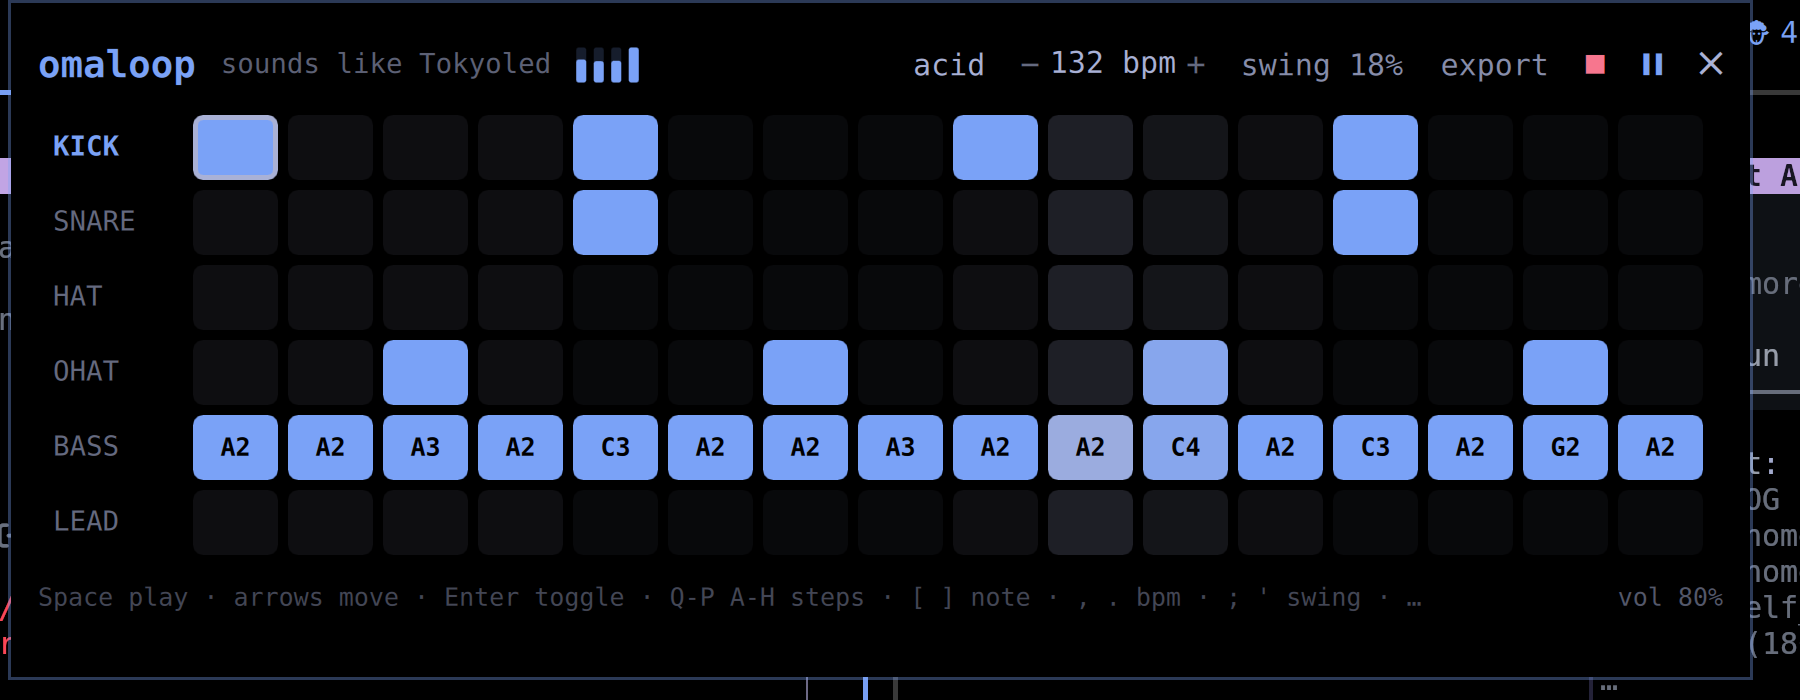
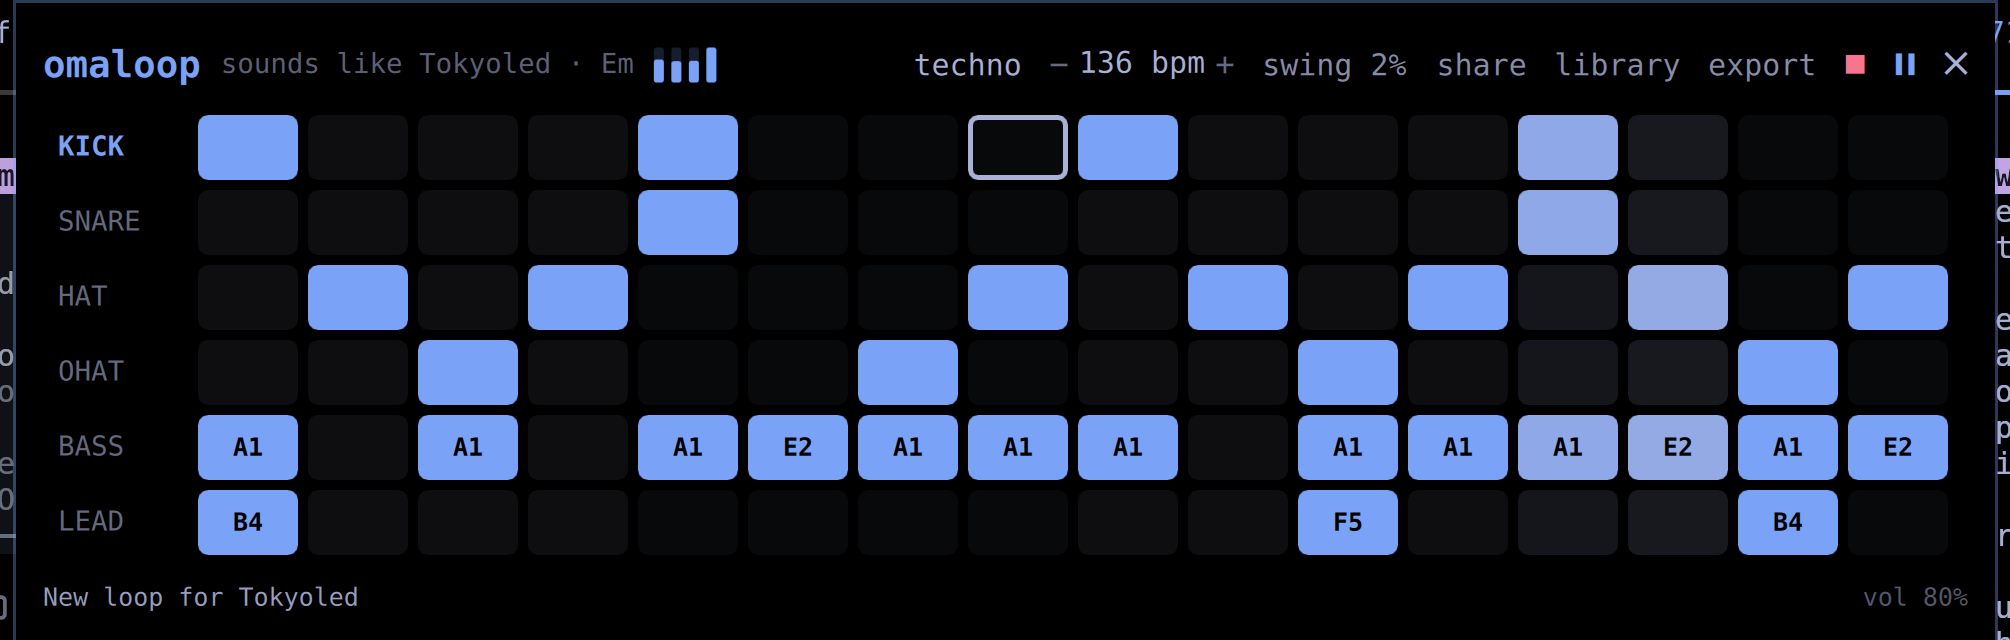
1.0.0: submission-ready README, fresh screenshots, preview.png, install.sh --uninstall, locked build

diff --git a/README.md b/README.md
@@ -1,13 +1,11 @@
 # omaloop
 
-A drop-down groovebox for [Omarchy](https://omarchy.org). Press SUPER+ALT+L. A 16-step drum machine, a bass line, and a lead synth slide down from the top of the screen in your theme's colors. Make a loop. Press SUPER+ALT+L again and it slides away while the loop keeps playing. Press Ctrl+C and the loop is a link you can tweet.
+**Your Omarchy theme is a loop.** Press SUPER+ALT+L and a groovebox drops down from the top of the screen in your theme's colors, already playing a loop the theme composed. Switch theme and it composes a new one. Press Ctrl+C and the loop is a link you can tweet.
 
-No samples, no DAW, no config. A small Rust engine generates four drums and two synths and sends them straight to PipeWire.
+![Futurism composes synthwave in G minor](docs/futurism.png)
+![Tokyo Night composes techno in E minor](docs/tokyoled.png)
 
-**Your theme is a loop.** Switch theme and omaloop composes a new one from the palette: the colors pick a style (techno, synthwave, boombap, deep, house), a tempo, a swing, a key, the drums, a bass line, a lead motif, and the tone. The same theme always writes the same loop, so "what does Tokyo Night sound like" has one answer. Shift+G asks for a variation. Your outgoing loop is saved to the library first.
-
-![omaloop under Robzee84](docs/robzee84.png)
-![the same loop under Tokyo Night](docs/tokyoled.png)
+Same plugin, two themes, two loops. No samples, no DAW, no config, no network. A small Rust engine synthesizes four drums, a bass, and a lead and sends them straight to PipeWire.
 
 ## Install
 
@@ -16,64 +14,20 @@ omarchy plugin add https://github.com/joshuaswarren/omaloop --enable
 ~/.config/omarchy/plugins/io.github.joshuaswarren.omaloop/install.sh --bind
 ```
 
-`install.sh` builds the engine with cargo and registers the `omaloop://` link handler. With `--bind` it also appends a SUPER+ALT+L binding to `~/.config/hypr/bindings.lua`. Without `--bind` it prints the line for you to add yourself. If the engine is missing, the panel shows a Build button that runs the same build.
+The first line clones this repo the standard Omarchy way. The second builds the engine (needs [Rust](https://rustup.rs)) and registers the `omaloop://` link handler. With `--bind` it also adds SUPER+ALT+L to `~/.config/hypr/bindings.lua`. Leave `--bind` off and it prints the line for you instead. Skip the script and the panel shows a Build button that runs the same `cargo build`.
 
-Toggle without the keybind:
+Requires Omarchy 4 (Quattro), Rust 1.75+, and `wl-clipboard` (already on Omarchy).
+
+## Remove
 
 ```sh
-omarchy-shell shell toggle io.github.joshuaswarren.omaloop
-omarchy-shell shell summon io.github.joshuaswarren.omaloop '{"preset":"acid","play":true}'
+~/.config/omarchy/plugins/io.github.joshuaswarren.omaloop/install.sh --uninstall
+omarchy plugin remove io.github.joshuaswarren.omaloop
 ```
 
-Requires Omarchy 4 (Quattro) and Rust 1.75+.
+The first line removes the link handler and the keybinding it added. The second removes the plugin. Your loops in `~/.config/omaloop` and exports in `~/Music/omaloop` are left for you to keep or delete.
 
-## Play it
-
-| Key | Does |
-|---|---|
-| `Space` | play / pause |
-| arrows | move the cursor |
-| `Enter` or `X` | toggle the cell under the cursor |
-| `Q W E R T Y U I O P A S D F G H` | toggle steps 1-16 in the cursor's row |
-| `1` - `6` | jump to a row |
-| `[` `]` | move a bass or lead note down / up the scale (A minor) |
-| `,` `.` | BPM -1 / +1 (Shift for 5) |
-| `;` `'` | swing -5% / +5% |
-| `-` `=` | volume |
-| `Shift+P` | next preset (y2k, acid, minimal, breaks) |
-| `Shift+R` | randomize the cursor's row (drums by density, notes in scale) |
-| `Shift+C` or `Delete` | clear the cursor's row |
-| `Shift+G` | new loop from the current theme (each press is a new variation) |
-| `Shift+E` | export 4 bars to `~/Music/omaloop/<preset>-<time>.wav` |
-| `Ctrl+C` | copy a share link for this loop |
-| `Ctrl+V` | load a loop from a link or code on the clipboard |
-| `Ctrl+S` | save to your library (type a name, Enter) |
-| `Ctrl+O` | open the library (Up/Down, Enter loads, Delete removes) |
-| `Esc` | hide (the loop keeps playing; the red square stops it) |
-
-Mouse works too: click a cell, scroll on a note cell to transpose, click the preset name to cycle, scroll on swing or volume.
-
-![editing a loop](docs/editing.png)
-
-The current pattern is saved on every change to `~/.config/omaloop/pattern.json` and comes back on the next boot. Named loops live in `~/.config/omaloop/patterns/<name>.json`.
-
-## Share a loop
-
-Ctrl+C in the panel puts a link like this on your clipboard:
-
-```
-https://joshuaswarren.github.io/omaloop/#AUEEEJBVVQCAIQAAIQAAIQAAACEAACQAAAAAAAAAAAAARQBIAAAAAAB9QObMM4AH
-```
-
-The 64 characters after `#` are the whole loop: 4 drum masks, 32 notes, tempo, swing, tone, and key, in 48 bytes. Anyone who opens the link gets a browser page that plays the loop with the same synthesis as the desktop engine and shows the grid. If they have omaloop, the "open in omaloop" button hands the code to their panel through the `omaloop://` scheme, and their theme decides how it sounds. Ctrl+V in the panel loads a link or bare code from the clipboard.
-
-## Why this exists
-
-Omarchy 4 rebuilt the desktop as one Quickshell process. The community started shipping plugins for it overnight. The ones that spread make the desktop do something new in the theme's own colors. Every music plugin so far plays other people's music. omaloop makes the desktop itself an instrument.
-
-In 2000 I produced techno as DJ Zip in FruityLoops with an Akai AX-60 and a Yamaha DD-50. "A Y2K Time Warp" won amp3.com's first Pick Hit Gold of the year on 2000-01-02. The default `y2k` preset is that loop's shape: four-on-the-floor at 138, a clap on 2 and 4, offbeat hats, a walking A-minor bass, and a detuned three-saw lead. The lead is a 3xOSC homage on purpose.
-
-## How the theme becomes a loop
+## What a theme becomes
 
 The panel reads the shell's live palette (accent, background, foreground, urgent, muted) and reduces it to four numbers and a seed:
 
@@ -85,18 +39,75 @@ The panel reads the shell's live palette (accent, background, foreground, urgent
 | spice | urgent color saturation | how busy the lead is |
 | seed | a hash of all five colors | the exact notes inside the style's rules |
 
-The engine composes inside each style's vocabulary: four-on-the-floor and offbeat open hats for techno, a swung two-kick pattern with dorian color for boombap, an arpeggiated chord for synthwave, long sub notes and one lead phrase for deep, root-fifth bass and stabs for house. Tempo and swing come from the style with a little seeded variation.
+The engine composes inside each style's vocabulary. Techno gets four-on-the-floor and offbeat open hats. Boombap gets a swung two-kick pattern with dorian color. Synthwave gets an arpeggiated chord. Deep gets long sub notes and one lead phrase. House gets root-fifth bass and stabs. Tempo and swing come from the style with a little seeded variation. The same theme always writes the same loop, so "what does Catppuccin sound like" has one answer.
 
-On top of the loop, the palette also sets the tone. Whenever the theme changes the panel sends one `tone` message:
+The palette also sets the tone, live:
 
 | Palette | Synth |
 |---|---|
-| accent hue | the key (12 hues, 12 minor keys, applied as a playback transpose so your notes stay where you put them) and oscillator detune spread |
-| accent lightness | filter cutoff (brighter accent, brighter lead and bass) |
+| accent hue | the key (12 hues, 12 keys, applied as a playback transpose so your notes stay where you put them) and oscillator spread |
+| accent lightness | filter cutoff |
 | accent saturation | drive (tanh soft clip on the mix) |
 | background darkness | sub weight under the kick and bass |
 
-No table of theme names. Custom themes get a sound too. The header shows the key and four small bars for the current tone. Loading a preset, a saved loop, or a shared link keeps this rule: on your machine, your theme owns the sound.
+Custom themes get a loop too. Switching theme saves the outgoing loop to your library as `before theme switch` first, so nothing you made is lost.
+
+## Play it
+
+| Key | Does |
+|---|---|
+| `Space` | play / pause |
+| arrows | move the cursor |
+| `Enter` or `X` | toggle the cell under the cursor |
+| `Q W E R T Y U I O P A S D F G H` | toggle steps 1-16 in the cursor's row |
+| `1` - `6` | jump to a row |
+| `[` `]` | move a bass or lead note down / up the scale |
+| `,` `.` | BPM -1 / +1 (Shift for 5) |
+| `;` `'` | swing -5% / +5% |
+| `-` `=` | volume |
+| `Shift+G` | new loop from the current theme (each press is a new variation) |
+| `Shift+P` | cycle the hand-made presets (y2k, acid, minimal, breaks) |
+| `Shift+R` | randomize the cursor's row (drums by density, notes in scale) |
+| `Shift+C` or `Delete` | clear the cursor's row |
+| `Shift+E` | export 4 bars to `~/Music/omaloop/<name>-<time>.wav` |
+| `Ctrl+C` | copy a share link for this loop |
+| `Ctrl+V` | load a loop from a link or code on the clipboard |
+| `Ctrl+S` | save to your library (type a name, Enter) |
+| `Ctrl+O` | open the library (Up/Down, Enter loads, Delete removes) |
+| `Esc` | hide (the loop keeps playing; the red square stops it) |
+
+Mouse works too: click a cell, scroll on a note cell to transpose, click the preset name to cycle, scroll on swing or volume. While the panel is down it owns the keyboard, like Omarchy's menus. Nothing you play leaks into the window underneath.
+
+## Share a loop
+
+Ctrl+C puts a link like this on your clipboard:
+
+```
+https://joshuaswarren.github.io/omaloop/#AUEEEJBVVQCAIQAAIQAAIQAAACEAACQAAAAAAAAAAAAARQBIAAAAAAB9QObMM4AH
+```
+
+The 64 characters after `#` are the whole loop: 4 drum masks, 32 notes, tempo, swing, tone, and key, in 48 bytes. Anyone who opens the link gets a static page that plays the loop in the browser and shows the grid. The page is a JavaScript port of the engine. If they have omaloop, the "open in omaloop" button hands the code to their panel through the `omaloop://` scheme. Their theme decides how it sounds. Ctrl+V loads a link or bare code from the clipboard.
+
+## Where things live
+
+| Path | What |
+|---|---|
+| `~/.config/omaloop/pattern.json` | the current loop, written on every change |
+| `~/.config/omaloop/patterns/<name>.json` | your library |
+| `~/Music/omaloop/*.wav` | exports |
+| `~/.local/share/applications/omaloop.desktop` | the `omaloop://` handler, written by `install.sh` |
+| `~/.config/hypr/bindings.lua` | one appended `o.bind` line, only with `install.sh --bind` |
+
+## What it runs and touches
+
+Written for anyone reviewing this plugin before enabling it.
+
+- The panel (`OmaloopPanel.qml`) spawns one child process, `engine/target/release/omaloop-engine`. It is built from the Rust source in this repo with `cargo build --locked`. Dependencies are pinned in `engine/Cargo.lock`: cpal (audio), hound (WAV), serde_json, parking_lot. The engine reads stdin. It writes stdout, the state file, library files, and the WAV exports you ask for.
+- The panel also runs `test`, `cargo build --release` (Build button only), `wl-copy` (Ctrl+C), and `wl-paste -n` (Ctrl+V). It reads `~/.local/state/omarchy/current/theme.name` to show the theme name.
+- `bin/omaloop-open` is the `omaloop://` handler. It extracts a 64-character `[A-Za-z0-9_-]` code from the URL and calls `omarchy-shell shell summon` with it. It ignores anything else.
+- `install.sh` runs only when you run it. It never downloads a script, never uses sudo or pkexec, and only writes the files listed above. `--uninstall` reverses it.
+- No network access anywhere in the plugin. The share page is static HTML on GitHub Pages and does not phone home.
+- `omarchy plugin validate` passes; there are no symlinks and no bundled binaries in the repo.
 
 ## Architecture
 
@@ -104,8 +115,9 @@ No table of theme names. Custom themes get a sound too. The header shows the key
 OmaloopPanel.qml   Quickshell panel, theme colors from qs.Commons, all keys
       |  Quickshell.Io.Process: JSON lines over stdin / stdout
       v
-omaloop-engine     Rust, ~600 lines: 16-step clock with swing, 6 voices,
-      |            dotted-eighth delay, soft clip, state file, WAV export
+omaloop-engine     Rust, one file: 16-step clock with swing, 6 voices,
+      |            dotted-eighth delay, soft clip, composer, loop codes,
+      |            state file, library, WAV export
       v
 PipeWire           via cpal
 ```
@@ -120,17 +132,15 @@ cd engine && cargo build --release
 ```
 
 ```json
+{"cmd":"generate","seed":42,"energy":0.7,"warmth":0.3,"brightness":0.1,"spice":0.5}
 {"cmd":"preset","name":"acid"}
 {"cmd":"step","track":"ohat","index":14,"on":true}
 {"cmd":"note","track":"lead","index":0,"note":69}
-{"cmd":"tone","cutoff":0.2,"detune":0.8,"drive":0.5,"sub":0.9}
+{"cmd":"tone","cutoff":0.2,"detune":0.8,"drive":0.5,"sub":0.9,"transpose":7}
 {"cmd":"swing","value":0.2}
-{"cmd":"random","track":"bass"}
-{"cmd":"generate","seed":42,"energy":0.7,"warmth":0.3,"brightness":0.1,"spice":0.5}
 {"cmd":"code"}
[1 lines of base64/hex data omitted]
 {"cmd":"save","name":"friday"}
-{"cmd":"open","name":"friday"}
 {"cmd":"list"}
 {"cmd":"export","path":"/tmp/loop.wav","bars":8}
 {"cmd":"dump"}
@@ -138,13 +148,19 @@ cd engine && cargo build --release
 
 Events come back as `{"event":"step","index":n}` on every step. `dump` answers with `{"event":"state",...}`. A finished render sends `{"event":"exported","path":...}`. Drum tracks are `kick`, `snare`, `hat`, `ohat` (booleans). Note tracks are `bass` and `lead` (MIDI notes, 0 = rest). A closed hat chokes the open hat.
 
+## Why
+
+Omarchy 4 rebuilt the desktop as one Quickshell process. The community started shipping plugins for it overnight. The ones that spread make the desktop do something new in the theme's own colors. Every music plugin so far plays other people's music. omaloop makes the desktop itself an instrument.
+
+In 2000 I produced techno as DJ Zip in FruityLoops with an Akai AX-60 and a Yamaha DD-50. "A Y2K Time Warp" won amp3.com's first Pick Hit Gold of the year on 2000-01-02. The `y2k` preset is that loop's shape, and the lead is a 3xOSC homage on purpose.
+
 ## Layout
 
 ```
 manifest.json      Omarchy plugin manifest (panel + bar widget)
 OmaloopPanel.qml   the drop-down
 BarWidget.qml      "♪ loop" in the bar; click toggles the panel
-install.sh         build, omaloop:// handler, optional SUPER+ALT+L binding
+install.sh         build, omaloop:// handler, optional keybinding, --uninstall
 bin/omaloop-open   the omaloop:// handler
 engine/            the Rust groovebox
 docs/index.html    the share page (GitHub Pages), a JS port of the engine
